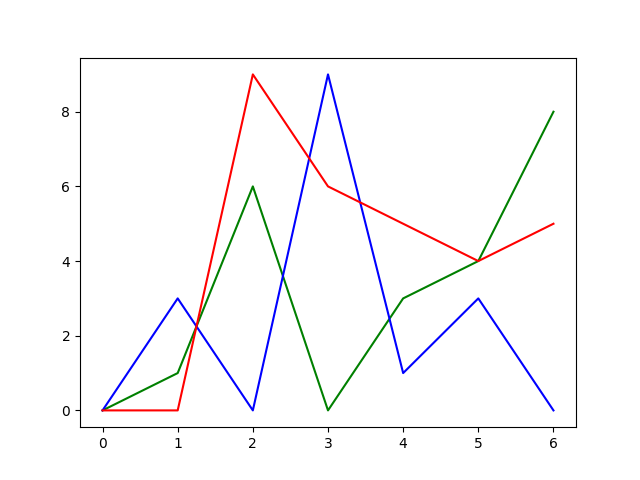
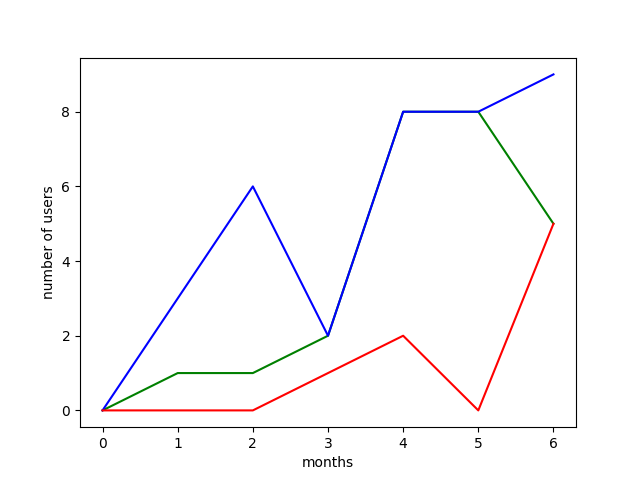
improved ui

diff --git a/templates/admin_dashbord.html b/templates/admin_dashbord.html
@@ -3,15 +3,27 @@
     <head>
         <title>Admin Dashbord</title>
         <link rel="stylesheet" href="/static/bootstrap.min.css">
+        <link rel="stylesheet" href="/static/custom_dashbord.css">
     </head>
 
     <head>
-        <a href="admin/manage_plans"  class="btn btn-primary">add new plan</a>
-        <h1>Analytics</h1>
-        <img src="/static/graph.png" alt="analytics_graph">
-        <p>number of new accounts signed up - {{ analytics[1] }}</p>
-        <p>number of accounts upgraded      - {{ analytics[2] }}</p>
-        <p>number of left                   - {{ analytics[3] }}</p>
+        <div class="analytics">
+            <img src="/static/graph.png" id="graph" alt="analytics_graph">
+            <table>
+                <tr>
+                    <td>number of users signed up</td>
+                    <td><input type="button" value="" class="btn btn-primary" id="graph_signup"></td>
+                </tr>
+                <tr>
+                    <td>number of users Upgraded</td>
+                    <td><input type="button" value="" class="btn btn-primary" id="graph_upgrade"></td>
+                </tr>
+                <tr>
+                    <td>number of users left</td>
+                    <td><input type="button" value="" class="btn btn-primary" id="graph_left"></td>
+                </tr>
+            </table>
+        </div>
     </head>
 </html>
 

diff --git a/static/custom_dashbord.css b/static/custom_dashbord.css
@@ -10,6 +10,30 @@
     margin-right: 5px;
 }
 
+.analytics{
+    width: max-content;
+    height: auto;
+    display: block;
+    margin-left: auto;
+    margin-right: auto;
+}
+
+#graph_signup{
+    background-color: green;
+}
+
+#graph_upgrade{
+    background-color: blue;
+}
+
+#graph_left{
+    background-color: red;
+}
+
+table tr td{
+    padding: 5px;
+}
+
 #upgrade_account{
     background-color: #7cb342;
     translate: all 0.2s ease-in;

diff --git a/app.py b/app.py
@@ -17,8 +17,8 @@ mail_settings = {
     "MAIL_PORT": 465,
     "MAIL_USE_TLS": False,
     "MAIL_USE_SSL": True,
-    "MAIL_USERNAME": 'onkarkunjir88@gmail.com',
-    "MAIL_PASSWORD": 'Just type OK @2000'
+    "MAIL_USERNAME": '#',
+    "MAIL_PASSWORD": '#'
 }
 app.config.update(mail_settings)
 mail = Mail(app)
@@ -58,6 +58,8 @@ def admin_dashbord():
         plt.plot(index , data[: , 0] , c = 'g')
         plt.plot(index , data[: , 1] , c = 'b')
         plt.plot(index , data[: , 2] , c = 'r')
+        plt.xlabel("months")
+        plt.ylabel("number of users")
         path = os.path.join( os.getcwd() , 'static/graph.png' )
         plt.savefig(path)
         plt.close()
